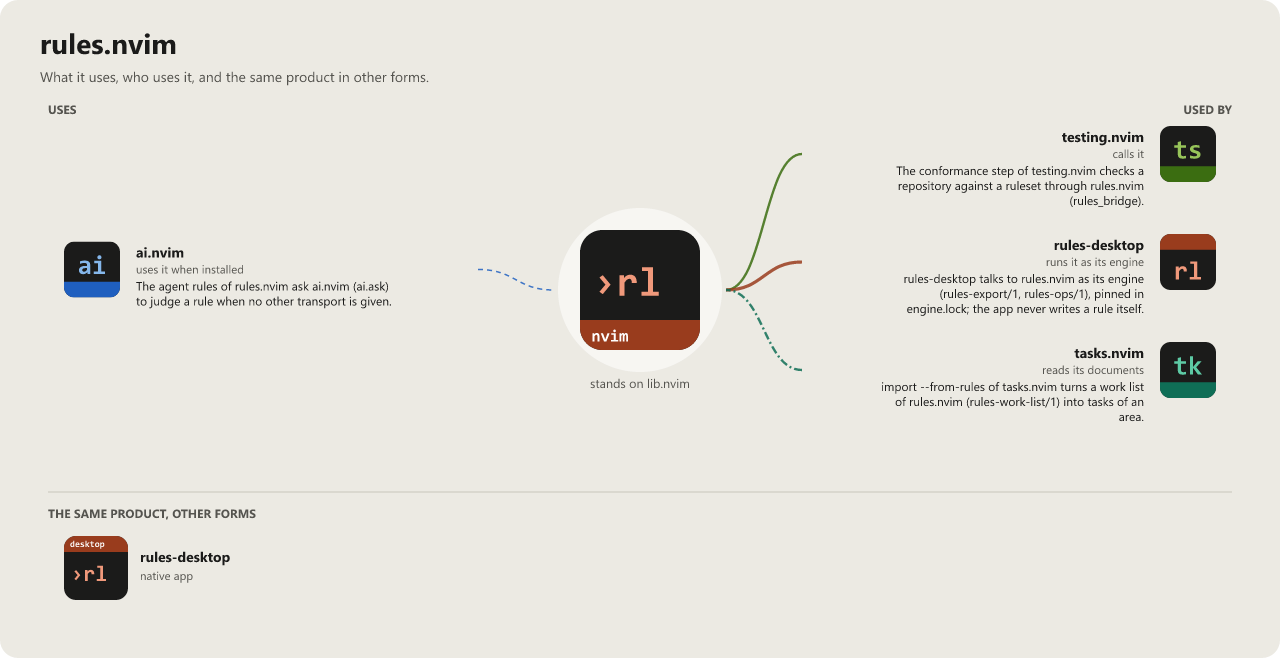
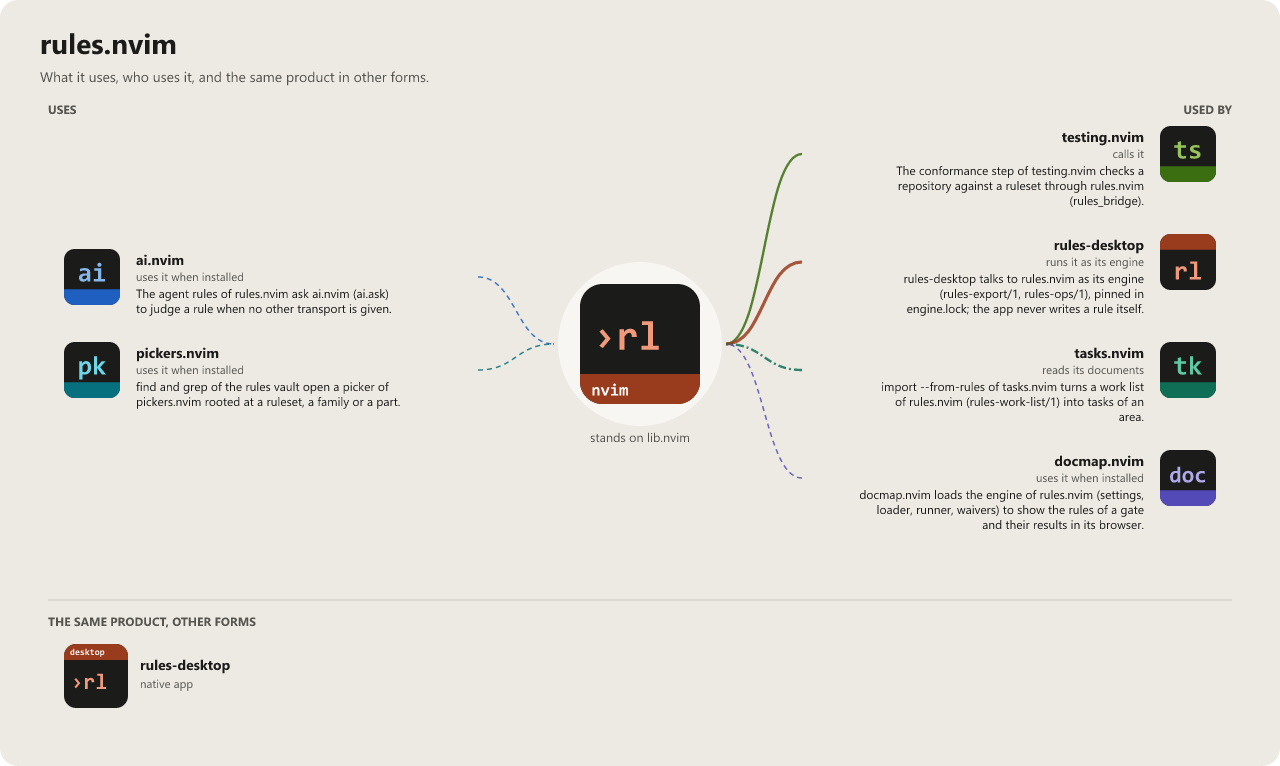
docs(graphs): connections through optional loaders, programs, HTTP and files
The connections picture and the README block now also show what the require rule did not see: optional loads through soft_require, lib.nvim.require.safe and package.loaded, and connections over programs, HTTP and files, each with a line of code as evidence. Written by the app-icons tool of the workshop (graphs.mjs install-repos).

diff --git a/README.md b/README.md
@@ -255,10 +255,12 @@ MIT — see [LICENSE](LICENSE).
 **Uses**
 
 - [ai.nvim](https://github.com/WKDSteve/ai.nvim): The agent rules of rules.nvim ask ai.nvim (`ai.ask`) to judge a rule when no other transport is given. ([picture](assets/graphs/pair/rules.nvim--ai.nvim.png))
+- [pickers.nvim](https://github.com/WKDSteve/pickers.nvim): `find` and `grep` of the rules vault open a picker of pickers.nvim rooted at a ruleset, a family or a part. ([picture](assets/graphs/pair/rules.nvim--pickers.nvim.png))
 - [lib.nvim](https://github.com/WKDSteve/lib.nvim): the shared base of the plugins.
 
 **Used by**
 
+- [docmap.nvim](https://github.com/WKDSteve/docmap.nvim): docmap.nvim loads the engine of rules.nvim (settings, loader, runner, waivers) to show the rules of a gate and their results in its browser. ([picture](assets/graphs/pair/docmap.nvim--rules.nvim.png))
 - [rules-desktop](https://github.com/WKDSteve/rules-desktop): rules-desktop talks to rules.nvim as its engine (`rules-export/1`, `rules-ops/1`), pinned in `engine.lock`; the app never writes a rule itself. ([picture](assets/graphs/pair/rules-desktop--rules.nvim.png))
 - [tasks.nvim](https://github.com/WKDSteve/tasks.nvim): `import --from-rules` of tasks.nvim turns a work list of rules.nvim (`rules-work-list/1`) into tasks of an area. ([picture](assets/graphs/pair/tasks.nvim--rules.nvim.png))
 - [testing.nvim](https://github.com/WKDSteve/testing.nvim): The conformance step of testing.nvim checks a repository against a ruleset through rules.nvim (`rules_bridge`). ([picture](assets/graphs/pair/testing.nvim--rules.nvim.png))
